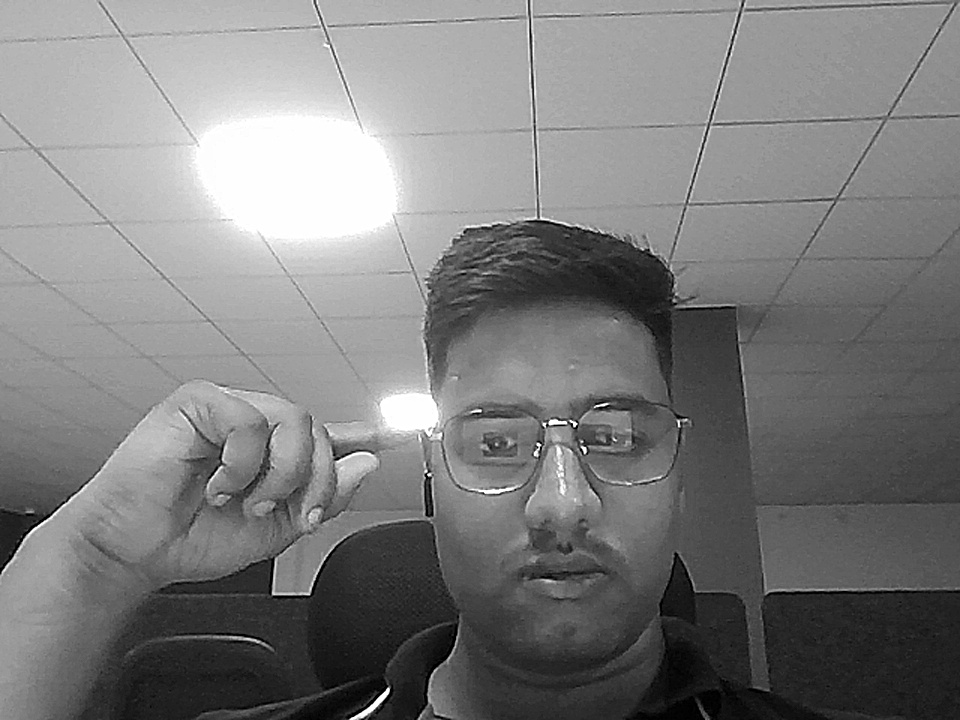
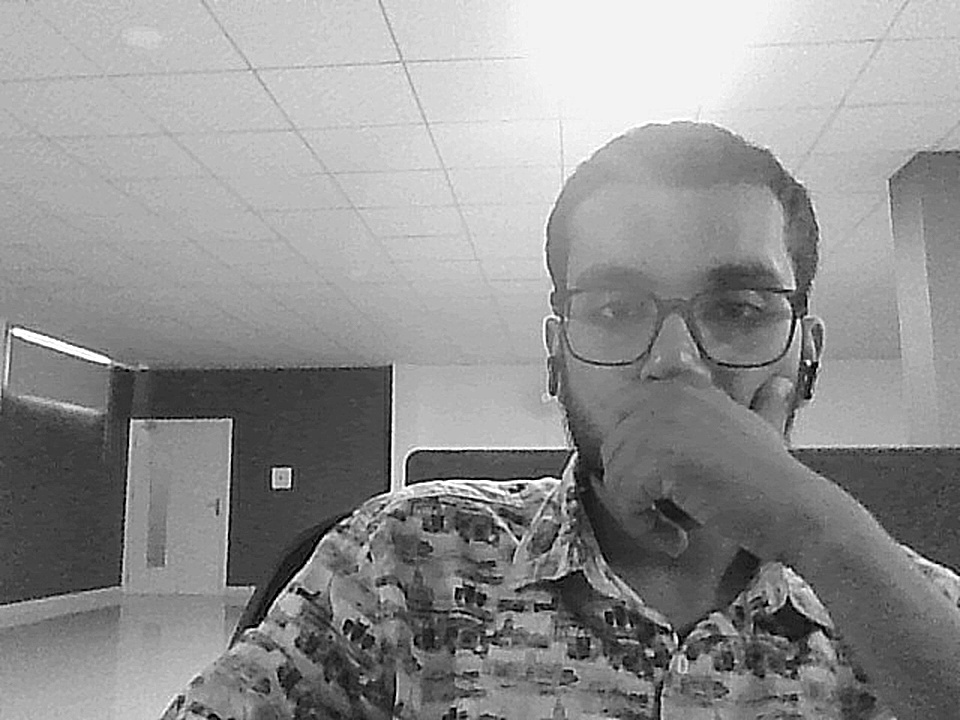
Comment Out Date Of Birth Section

diff --git a/templates/extract.html b/templates/extract.html
@@ -86,7 +86,7 @@
                             </div>
                         </div> -->
 
-            <!-- Date of Birth -->
+            <!-- Date of Birth
             <div class="col-md-6">
               <label class="form-label font-bold text-slate-600 text-sm">Date of Birth <span
                   class="text-red-500">*</span></label>
@@ -96,7 +96,7 @@
                 <input type="date" class="form-control border-s-0 font-medium text-slate-800 focus:ring-blue-500"
                   name="dob" value="{{ data['dob'] if data and 'dob' in data else '' }}" required>
               </div>
-            </div>
+            </div> -->
 
             <!-- Gender Radio -->
             <div class="col-md-6">
